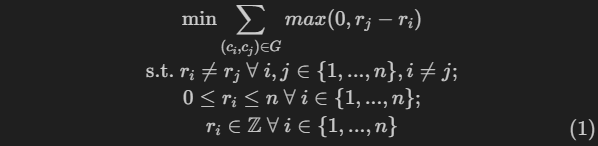
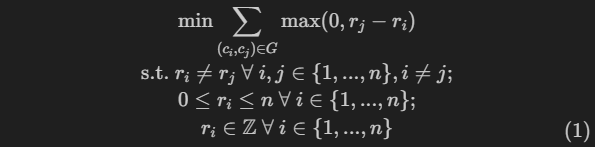
Add SOS tiebreaker to README

diff --git a/README.md b/README.md
@@ -25,7 +25,7 @@ Let $r_i$ be the integer rank of competitor $c_i$ for each $i \in \{1,...,n\}$. 
 
 As stated in the Introduction, our biggest priority is consistency, or conversely, minimizing inconsistency. An inconsistency occurs when a competitor $c_i$ is ranked higher than another competitor $c_j$ despite $c_j$ having beaten $c_i$ in a game.
 
-For each game $(c_i, c_j)$, we can compute an inconsistency score. If $r_i > r_j$, then we say the inconsistency score is $0$ (since this is a "consistent" game). However, if $r_i < r_j$, then we say the inconsistency score is $r_j - r_i$, i.e. the difference of the two competitors' ranks. These two cases can be combined by saying the inconsistency score of a game $(c_i, c_j)$ is $max(0, r_j - r_i)$.
+For each game $(c_i, c_j)$, we can compute an inconsistency score. If $r_i > r_j$, then we say the inconsistency score is $0$ (since this is a "consistent" game). However, if $r_i < r_j$, then we say the inconsistency score is $r_j - r_i$, i.e. the difference of the two competitors' ranks. These two cases can be combined by saying the inconsistency score of a game $(c_i, c_j)$ is $\max(0, r_j - r_i)$.
 
 The total inconsistency score of the ranking is just the sum of all the inconsistency scores of the games. Our objective is to minimize this total inconsistency score. Combine this objective with the rank constraints outlined earlier, and we see the optimization problem $(1)$ that defines our ranking system.
 
@@ -45,22 +45,45 @@ Now, let $r_1=2$ and $r_2=1$. The game between $c_1$ and $c_2$ is now inconsiste
 
 Notice that in $(1)$, both rankings are equally consistent. However, I propose that a better ranking, when magnitude of inconsistency is equivalent, should then minimize the number of inconsistencies. This is certainly the precedent set in many rankings to prioritize head-to-head results. In this case, letting $r_1=1$ and $r_2=2$ should be preferred so the game between $c_1$ and $c_2$ is a consistent one with the ranking.
 
-This can be achieved by not only tracking the size of each inconsistency, but also the number of inconsistencies. Therefore, our new objective function is the sum of all game inconsistency scores plus the number of inconsistent games. Equivalently, we can just add $1$ to each inconsistent game to form a new game inconsistency score, $max(0, r_j - r_i + 1)$ for game $(c_i, c_j)$. Indeed, if $r_i > r_j$, then the game still has score $0$.
+This can be achieved by not only tracking the size of each inconsistency, but also the number of inconsistencies. Therefore, our new objective function is the sum of all game inconsistency scores plus the number of inconsistent games. Equivalently, we can just add $1$ to each inconsistent game to form a new game inconsistency score, $\max(0, r_j - r_i + 1)$ for game $(c_i, c_j)$. Indeed, if $r_i > r_j$, then the game still has score $0$.
 
 This can also be confirmed with our previous example. Letting $r_1 = 1$ and $r_2 = 2$ gives total inconsistency score $0 + (r_3 - 1 + 1) = r_3$. On the other hand, letting $r_1 = 2$ and $r_2 = 1$ gives total inconsistency score $(2 - 1 + 1) + (r_3 - 2 + 1) = r_3 + 1$. The first rank assignment now has a lower inconsistency score, as desired.
 
 ### Considering Strength Of Schedule
 
-While our primary objective remains consistency, we recognize that not all wins and losses are equal. A win against a top-tier competitor should carry more weight than a win against a bottom-tier competitor, even when both are consistent with the ranking.
+While our primary objective remains consistency, we recognize that not all wins and losses are equal. A win against a top-tier competitor should carry more weight than a win against a bottom-tier competitor when both are consistent with the ranking.
 
 To break ties between rankings with identical inconsistency scores, we introduce a strength of schedule metric. However, we must ensure this never compromises our core consistency objective. We achieve this by adding a carefully bounded tie-breaking term to our optimization problem.
 
-We will use the average rank of a competitor $c_i$'s opponents to determine a strength of schedule metric, $SOS_i$. Let $OPP_i$ be the collection of not necessarily unique opponents that $c_i$ has played. Mathematically, we compute $SOS_i$ using $(2)$.
+We compute a strength of schedule metric $SOS_i$ for competitor $c_i$ using equation $(2)$. Let $OPP_i$ be the collection of opponents that $c_i$ has played.
 
-$$
-SOS_i=\sum_{c_j \in OPP_i}\frac{r_j}{|OPP_i|}
-\tag{2}
-$$
+![eq2](img/eq2.png)
+
+This formulation can be understood as follows:
+
+-   $\frac{n - r_j}{n}$ converts each opponent's rank to a "quality score" between $0$ (worst opponent) and $\frac{n-1}{n}$ (best opponent)
+
+-   We average these scores across all opponents by dividing by the number of opponents $|OPP_i|$ to get $SOS_i$.
+
+-   The division by $n$ ensures $0 < SOS_i < 1$, since each opponent contributes at most $\frac{n-1}{n}$ to the average.
+
+-   Thus, $SOS_a > SOS_b$ indicates that $c_a$ has faced tougher opponents on average than $c_b$.
+
+To incorporate this into our ranking, we modify the objective function by adding the term computed in $(3)$.
+
+![eq3](img/eq3.png)
+
+This addition works as follows:
+
+-   The term $SOS_i \cdot r_i$ is minimized when competitors with high $SOS_i$ (tough schedules) receive low $r_i$ (good ranks).
+
+-   The maximum possible value of $\sum_{i=1}^{n}(SOS_i \cdot r_i)$ occurs when every competitor has $SOS_i close to $1$, yielding slightly less than $\frac{n(n+1)}{2}$.
+
+-   Multiplying by $\frac{2}{n(n+1)}$ ensures the entire tie-breaker term is always less than $1$.
+
+-   Since our inconsistency scores are integers greater than or equal to $1$, this guarantee means consistency always takes priority over strength of schedule.
+
+This approach maintains our philosophical commitment to consistency while rewarding competitors that face tougher competition when rankings are otherwise equally consistent.
 
 ### Other Improvements
 
